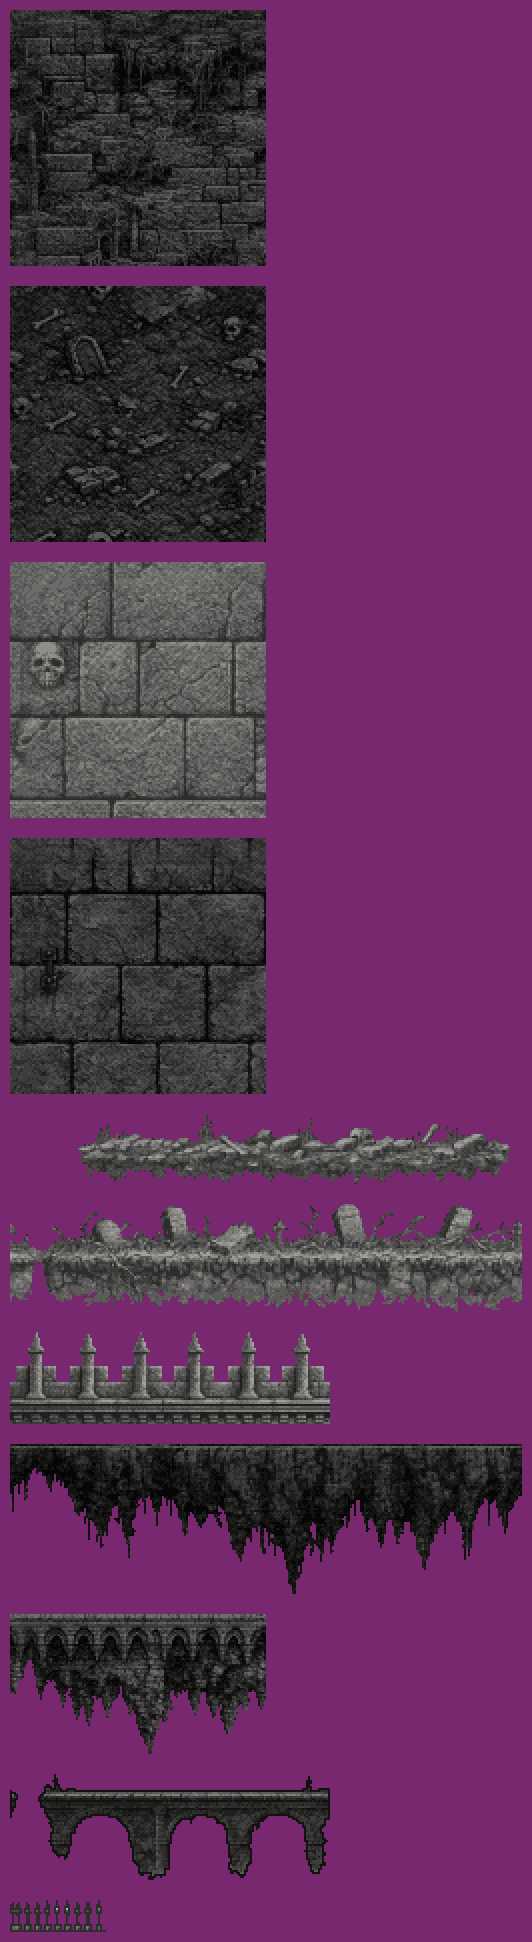
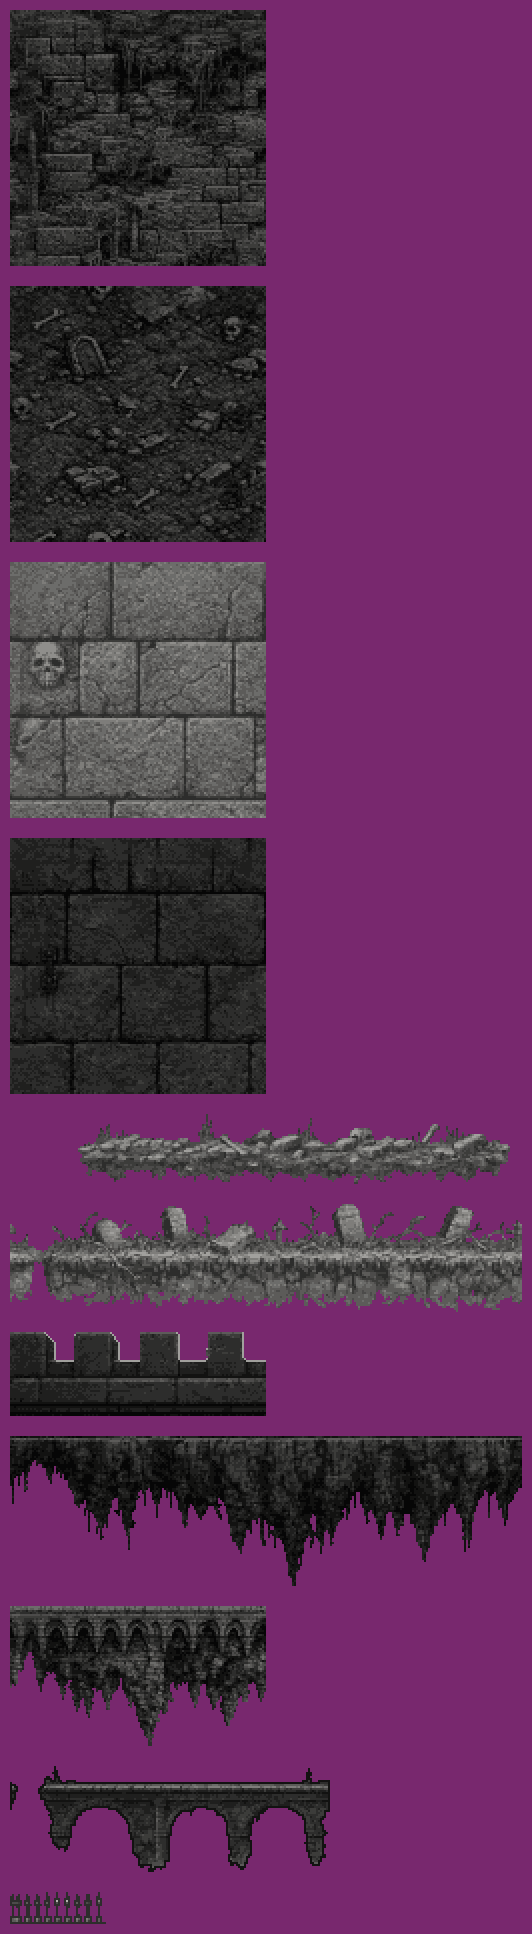
Tours : le chemin de ronde de la même pierre que les tours ; le dragon posé sur les dalles ; les tours interrompent le parapet
- Nouveau chemin de ronde (brief tours-rempart, peint avec l'image des tours noires comme référence de forme) : merlons
  carrés, dalles, mur de grand appareil, de la même pierre presque noire que les tours (luminance 37 contre 31, l'ancien
  parapet à pinacles gris clair était à 82). Quatre merlons exactement : le motif boucle sans fondu. Maçonnerie du mur
  assombrie (roc-tours) dans le même esprit.
- Les pieds se posent au milieu des dalles (solCrete dans TERRAIN), plus sur le bord du parapet.
- Une tour posée descend jusqu'à cette même ligne ; sous sa silhouette le parapet s'interrompt et seul le dessus du
  chemin passe : elle ne mord plus sur les créneaux.
- Un rempart sous une île garde ses créneaux (seule la roche fait le plafond d'une salle, pas une île ni une tour).
- Vérifié : captures à hauteur du dragon (tour de ta capture, tour du Beffroi, sous l'île, fondations, départ) ;
  npm test vert ; les 4 niveaux et la salle d'essai se chargent.

diff --git a/src/js/terrain.js b/src/js/terrain.js
@@ -17,10 +17,12 @@ import { flamme } from './titre.js';
 // qui pend sous une île (dessous) ;
 //   coeur : où commence la maçonnerie dans l'image (px) ; sol : la ligne du sommet de la tour dans l'image du sommet ;
 //   un ^ posé sur une tour est sa flèche : la pointe peinte le remplace.
+// solCrete : la ligne où se posent les pieds dans l'image de la crête (sinon : sa première ligne presque pleine) ;
+//   au milieu des dalles d'un chemin de ronde, les pieds s'y posent au lieu de marcher sur son bord.
 export const TERRAIN = {
   terres: { roc: 'terrain/roc-terres', crete: 'terrain/crete-terres', dessous: 'terrain/dessous' },
   cimetiere: { roc: 'terrain/roc-cimetiere', crete: 'terrain/crete-cimetiere', dessous: 'terrain/dessous' },
-  tours: { roc: 'terrain/roc-tours', crete: 'terrain/crete-tours', dessous: 'terrain/dessous-tours', sousLeCiel: true,
+  tours: { roc: 'terrain/roc-tours', crete: 'terrain/crete-tours', solCrete: 32, dessous: 'terrain/dessous-tours', sousLeCiel: true,
            galerie: { image: 'tours-pieces/balcon', sol: 25 },
            pieces: {
              4: { sommet: 'tours-pieces/a-sommet', fut: 'tours-pieces/a-fut', dessous: 'tours-pieces/a-dessous', coeur: 26, sol: 138 },   // à flèche
@@ -35,6 +37,15 @@ export const mod = (a, n) => ((a % n) + n) % n;
 export const auPixel = (x, c) => Math.round(x - c) + Math.round(c);
 // profondeur d'une roche ou d'une arche qui pend, à « bord » pixels de l'extrémité : épaules arrondies, bord irrégulier
 export const effile = (bord, mini, maxi, x) => Math.min(maxi, Math.round(mini + (maxi - mini) * Math.min(1, bord / 44) ** 0.55 + (hash(x * 1.7) - 0.5) * 5));
+// les colonnes peintes de la dernière ligne d'une image (le bas d'un fût) : [première, dernière]
+function bornesBas(img) {
+  const c = toile(img.width, img.height), g = c.getContext('2d');
+  g.drawImage(img, 0, 0);
+  const d = g.getImageData(0, img.height - 1, img.width, 1).data;
+  let a = img.width, b = -1;
+  for (let x = 0; x < img.width; x++) if (d[x * 4 + 3] > 0) { a = Math.min(a, x); b = x; }
+  return [a, b];
+}
 export function ligneOpaque(img) {             // première ligne presque pleine : là où la crête rejoint le sol
   const c = toile(img.width, img.height), g = c.getContext('2d');
   g.drawImage(img, 0, 0);
@@ -55,10 +66,10 @@ export function construireTuiles() {
   return Object.fromEntries(Object.entries(TERRAIN).map(([cle, t]) => {
     const passerelle = IMAGES_ART[t.galerie ? t.galerie.image : 'terrain/passerelle'];
     const pieces = t.pieces && Object.fromEntries(Object.entries(t.pieces).map(([larg, p]) =>
-      [larg, { ...p, sommet: IMAGES_ART[p.sommet], fut: IMAGES_ART[p.fut], dessous: p.dessous && IMAGES_ART[p.dessous] }]));
+      [larg, { ...p, sommet: IMAGES_ART[p.sommet], fut: IMAGES_ART[p.fut], dessous: p.dessous && IMAGES_ART[p.dessous], bas: bornesBas(IMAGES_ART[p.fut]) }]));
     return [cle, {
       roc: IMAGES_ART[t.roc], dessous: t.dessous && IMAGES_ART[t.dessous],
-      crete: t.crete && IMAGES_ART[t.crete], sol: t.crete ? ligneOpaque(IMAGES_ART[t.crete]) : 0, sousLeCiel: !!t.sousLeCiel,
+      crete: t.crete && IMAGES_ART[t.crete], sol: t.crete ? t.solCrete ?? ligneOpaque(IMAGES_ART[t.crete]) : 0, sousLeCiel: !!t.sousLeCiel,
       passerelle, tablier: t.galerie ? t.galerie.sol : ligneOpaque(passerelle), pointes: IMAGES_ART['terrain/pointes'], fissures,
       pieces,
     }];
@@ -108,7 +119,7 @@ function trouverTours(T) {
 // Posée, elle se tient sur le rempart ; une île (un fragment qui flotte) porte dessous son cône de roche renversé,
 // qui recouvre ses cases u : ce qu'on voit est ce qui arrête le dragon
 function peindreTour(g, T, t) {
-  const p = t.pieces, X = t.x0 * TP - p.coeur, haut = t.y0 * TP - p.sol, base = (t.y1 + 1) * TP;
+  const p = t.pieces, X = t.x0 * TP - p.coeur, haut = t.y0 * TP - p.sol, base = (t.y1 + 1) * TP + (t.flotte ? 0 : 2);
   const s = p.sommet, f = p.fut, basSommet = Math.min(base, haut + s.height);
   if (t.flotte && p.dessous) { const d = p.dessous; g.drawImage(d, Math.round((t.x0 + t.x1 + 1) * TP / 2 - d.width / 2), base - 2); }
   for (let y = basSommet; y < base; y += f.height) {
@@ -174,7 +185,7 @@ function peindreTerrain(g, x0, x1) {
   // sousLeCiel : un sol est abrité (galerie, citerne, alcôve) s'il a de la pierre au-dessus de lui, si haut soit-elle :
   // la crête ne se pose que sous le ciel ; un plafond couvre une salle s'il y a un sol sous lui, si bas soit-il :
   // la roche ne pend en entier qu'au-dessus du vide (le bas de la carte est le vide)
-  const abrite = (tx, ty) => { for (let y = ty - 2; y >= 0; y--) if (plein(tx, y)) return true; return false; };
+  const abrite = (tx, ty) => { for (let y = ty - 2; y >= 0; y--) if (roche(tx, y)) return true; return false; };
   const salle = (tx, ty) => { for (let y = ty + 4; y < H; y++) if (plein(tx, y)) return true; return false; };
   // 1. la roche qui pend sous les îles (derrière la roche elle-même) : pleine profondeur au milieu,
   //    elle s'effile vers les bords de chaque île au lieu d'être coupée net
@@ -219,11 +230,30 @@ function peindreTerrain(g, x0, x1) {
   // 4. la crête posée sur chaque sol à l'air libre (herbe morte, gravats, dalles, créneaux)
   if (T.crete) {
     const c = T.crete;
+    // les tours posées sur ce sol : sous leur silhouette, le parapet s'interrompt, et seul le dessus du chemin (à partir
+    // de 4 lignes au-dessus des pieds) passe dessous : la tour se dresse sur le chemin, elle ne mord pas sur les créneaux
+    const posees = cache.tours.filter((t) => t.pieces && !t.flotte)
+      .map((t) => ({ ty: t.y1 + 1, x0: t.x0 * TP - t.pieces.coeur + t.pieces.bas[0], x1: t.x0 * TP - t.pieces.coeur + t.pieces.bas[1] + 1 }));
+    const chemin = Math.max(0, T.sol - 4);
+    const tranche = (x, fin, sy, y) => {                 // [x, fin[ de la crête, de la ligne sy de l'image jusqu'en bas
+      for (; x < fin;) { const sx = mod(x, c.width), n = Math.min(fin - x, c.width - sx); g.drawImage(c, sx, sy, n, c.height - sy, x, y + sy, n, c.height - sy); x += n; }
+    };
     for (let ty = 1; ty < H; ty++) for (let tx = tx0; tx <= tx1; tx++) {
-      if (!roche(tx, ty) || plein(tx, ty - 1)) continue;
+      if (!roche(tx, ty)) continue;
+      const X = tx * TP, Y = ty * TP - T.sol, ici = posees.filter((p) => p.ty === ty && p.x0 < X + TP && p.x1 > X);
+      if (plein(tx, ty - 1) && !ici.length) continue;
       if (T.sousLeCiel && abrite(tx, ty)) {            // le sol d'une salle : l'arête claire d'une dalle, pas de créneaux
-        g.fillStyle = '#9a9a96'; g.fillRect(tx * TP, ty * TP, TP, 1); g.fillStyle = '#5e5e5b'; g.fillRect(tx * TP, ty * TP + 1, TP, 1);
-      } else g.drawImage(c, mod(tx * TP, c.width), 0, TP, c.height, tx * TP, ty * TP - T.sol, TP, c.height);
+        g.fillStyle = '#9a9a96'; g.fillRect(X, ty * TP, TP, 1); g.fillStyle = '#5e5e5b'; g.fillRect(X, ty * TP + 1, TP, 1);
+        continue;
+      }
+      for (let x = X; x < X + TP;) {
+        const dans = ici.find((p) => x >= p.x0 && x < p.x1);
+        let fin = X + TP;
+        if (dans) fin = Math.min(fin, dans.x1);
+        else for (const p of ici) if (p.x0 > x && p.x0 < fin) fin = p.x0;
+        tranche(x, fin, dans || plein(tx, ty - 1) ? chemin : 0, Y);
+        x = fin;
+      }
     }
   }
   // 5. les tours peintes, par-dessus tout le reste du terrain (leurs saillies couvrent le bout des galeries qui s'y accrochent)

diff --git a/skills/jeu-assets-pixel-art/SKILL.md b/skills/jeu-assets-pixel-art/SKILL.md
@@ -18,7 +18,7 @@ Méthode éprouvée sur Dragon Rider (jeu gothique en noir et blanc) : chaque im
 
 | Étape | Outil | Ce qu'il faut savoir |
 |---|---|---|
-| Brief | `art/briefs/<nom>.json` | Sujet, cadrage, fond (transparent pour un objet), références (une liste). Formuler sobrement : la modération rejette les briefs violents. Pour du texte (logo, inscription), épeler les lettres et vérifier l'orthographe sur l'image (une génération a déjà sorti « DRAGOON », une autre un accent en trop). |
+| Brief | `art/briefs/<nom>.json` (vérifier que le nom est libre : réécrire un brief existant détourne son image d'origine) | Sujet, cadrage, fond (transparent pour un objet), références (une liste). Formuler sobrement : la modération rejette les briefs violents. Pour du texte (logo, inscription), épeler les lettres et vérifier l'orthographe sur l'image (une génération a déjà sorti « DRAGOON », une autre un accent en trop). |
 | Génération | `pixel_artist/generer.py` | Édition d'après la référence pour la cohérence ; cache par empreinte et manifeste : ne payer que ce qui change. Clé dans un `.env` jamais versionné. |
 | Réduction | `pixel_artist/pixeliser.py` + `art/recettes/*.json` | Palette en rampe (luminance OKLab), plage de tons par plan (le lointain clair, le proche sombre), tramage Bayer 4×4, raccords sans couture (`raccord`), `garder` bas/haut, `contour`, `ilot_min`, `trous_max`, planches d'objets découpées automatiquement, `valeurs` (même étirement pour des pièces tirées d'une même source), `lumiere` (liseré). |
 | Personnage | `pixel_artist/pixel_artist.py` + `pixel_artist/pantin/` | Redessin en pixel art, découpe en os d'après la recette (voir le skill jeu-animation-marionnette) : jointures sans couture, morceaux détachés rendus à la pièce voisine, image au repos identique au modèle. En jeu, Pantin anime la marionnette. |
@@ -35,6 +35,9 @@ Méthode éprouvée sur Dragon Rider (jeu gothique en noir et blanc) : chaque im
 Quand le décor lui-même sert de plateformes (des tours où l'on se pose), peindre les éléments et les découper **en tranches** : sommet (terrasse ou toit en flèche), fût qui se répète en hauteur, et ce qui est sous la base.
 - **Rien de plus large que la collision sous l'endroit où l'on se pose.** Un « pied qui se perd dans la brume », peint pour des tours hautes, est arrivé à hauteur d'yeux quand les tours sont devenues basses : une tache deux fois plus large que le mur (« vraiment moche, mal intégré, pas logique »), et sous une île, une masse qu'on prenait pour un sol (« on s'attend à se poser dessus, mais non »).
 - **Une tour posée s'arrête net sur sa base.** **Un fragment qui flotte porte dessous un coin de roche renversé** (comme les îles de l'image d'ambiance), plus étroit vers le bas : on ne se pose pas sur une pointe. Le coin se génère plat (deux fois plus large que haut), sinon il bouche le couloir de vol, et sa collision se calcule d'après ses pixels (Dragon Rider : cases `u`).
+- **Le sol sur lequel se dressent les structures se peint d'après elles** : l'image des tours sert de référence de forme au chemin de ronde, qui prend leur pierre, leur valeur et leurs créneaux. Un parapet gris clair sous des tours noires faisait « collage ».
+- **Les pieds se posent dans le sol, pas sur son bord** : la ligne des pieds se choisit dans l'image du sol (au milieu des dalles d'un chemin de ronde), et les objets posés (tour, bûcher) partagent cette ligne.
+- **Une structure posée interrompt le parapet** sous sa silhouette (le dessus du chemin passe dessous) : elle ne mord pas sur les créneaux.
 - **Un décor pointu ne blesse pas.** Des flèches de tour qui blessaient : « le joueur ne va jamais comprendre ». Prévoir une largeur de pièce par largeur de structure sur la carte. Le moteur les assemble à la hauteur voulue, et les collisions restent celles des cases. C'est la découpe « 3 tranches » du pipeline Sillage : tuiler, jamais étirer.
 
 ## La validation : une seule fois, au bon niveau
